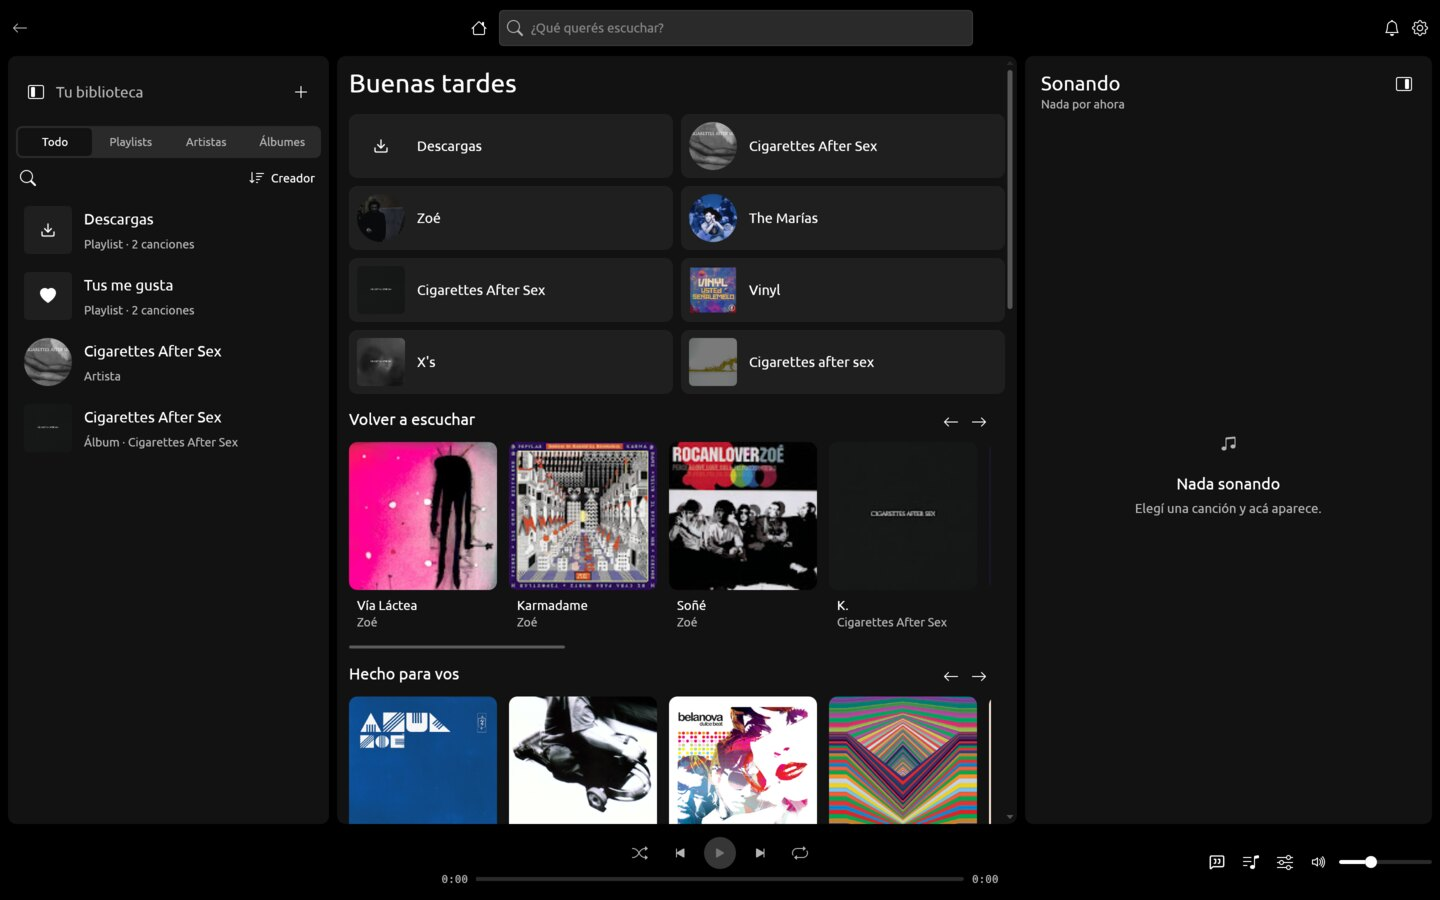
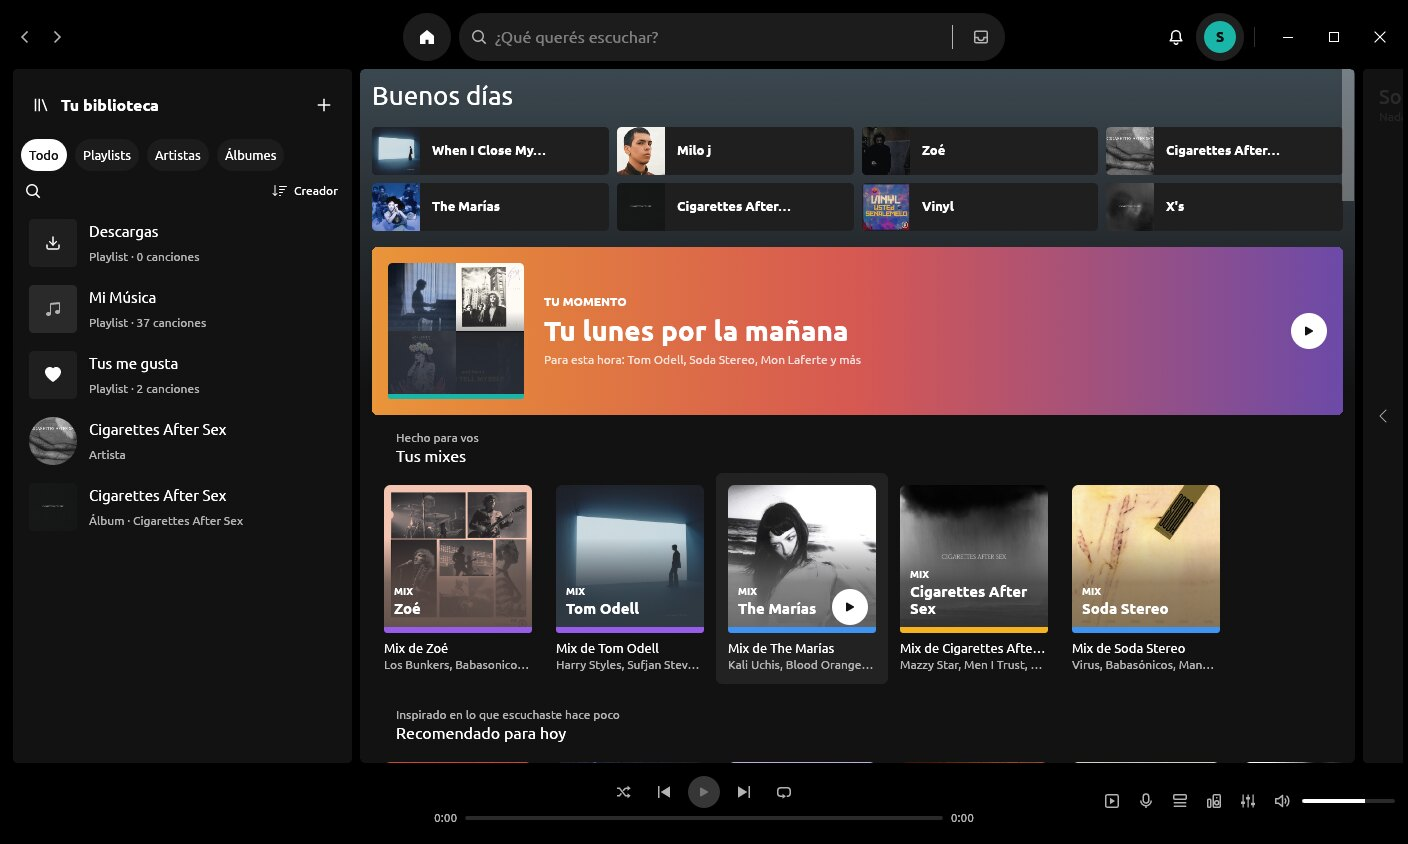
docs: the README's screenshots taken anew, and in the notes of 0.10.1

diff --git a/README.md b/README.md
@@ -4,14 +4,16 @@ A native music player for the desktop, written entirely in Rust. The interface i
 with [limn](https://github.com/Niiihuel/limn); there is no web view. *Surco* is the
 groove of a record: where the needle travels.
 
-![The home page: what was played, and picks made from it](docs/screenshots/home.jpg)
+![The home page: mixes and picks made from what is played](docs/screenshots/home.jpg)
 
 It plays without an account. What is liked, kept and listed stays on the machine that
 plays it; a playlist is shared as a link that carries it whole.
 
 ## What it does
 
-- Search, artist and album pages, and a home page of picks made from what is played.
+- Search as you type, artist and album pages, and a home page that grows with what is
+  played: mixes of the artists played most, a card for the time of day, what is played
+  again and again, picks for fans of an artist and news from the ones followed.
 - Gapless playback with crossfade, a ten-band equaliser, even loudness and a choice of
   output device and quality.
 - Synced lyrics, the song's own video beside it or over the whole window, the queue,
@@ -23,10 +25,15 @@ plays it; a playlist is shared as a link that carries it whole.
   as artist-and-title text to paste into a playlist transfer service. Spotify imports
   read up to 100 tracks; songs that cannot be matched are reported after the import.
 - A bell for what the artists followed release, and for later versions of the app.
+- A local profile with a picture of its own, and the account moved to a phone or another
+  computer on the same network: the phone's camera reads a code, a computer types an
+  address.
 
 | | |
 |---|---|
-| ![An artist's page, with its tracks as a table](docs/screenshots/artist.jpg) | ![Synced lyrics beside the song's own video](docs/screenshots/lyrics.jpg) |
+| ![What plays, its video tall at the top of the right panel](docs/screenshots/playing.jpg) | ![Synced lyrics with their translation](docs/screenshots/lyrics.jpg) |
+| ![A playlist and a song's menu](docs/screenshots/playlist.jpg) | ![Search results as they are typed](docs/screenshots/search.jpg) |
+| ![The local profile](docs/screenshots/profile.jpg) | ![Moving the account to another device](docs/screenshots/handoff.jpg) |
 
 ## Crates
 

diff --git a/CHANGELOG.md b/CHANGELOG.md
@@ -2,6 +2,8 @@
 
 ## 0.10.1
 
+![What plays, its video tall at the top of the right panel](https://raw.githubusercontent.com/Niiihuel/surco/v0.10.1/docs/screenshots/playing.jpg)
+
 ### Changed
 
 - A song among the recent searches plays or pauses from its cover, shows its wave while it
@@ -13,6 +15,8 @@
 - A song's video fades in over its cover instead of replacing it at once.
 - The right panel keeps its corners round over the song's video.
 - The cross inside a page's search no longer draws a disc over the field.
+
+![Synced lyrics with their translation](https://raw.githubusercontent.com/Niiihuel/surco/v0.10.1/docs/screenshots/lyrics.jpg)
 
 ## 0.10.0
 
